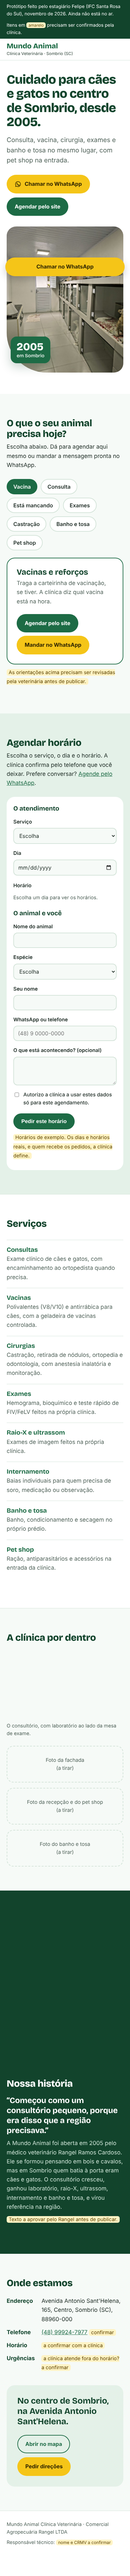
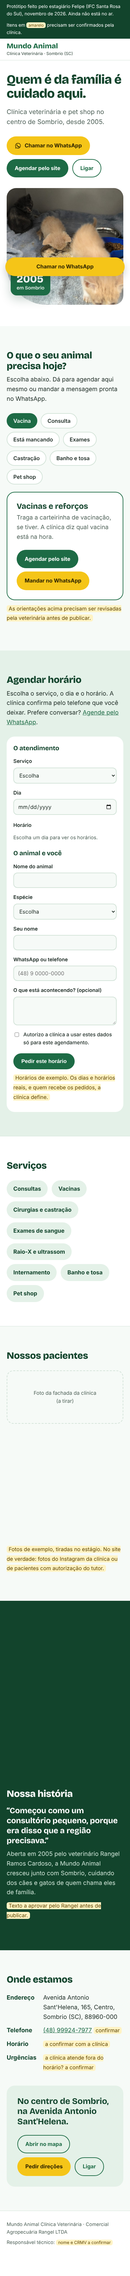
Site da Mundo Animal v2: animais em vez de infraestrutura, menos texto, botão Ligar
Claude-Session: https://claude.ai/code/session_01N8Ng2QuhzTmD121TGEQjbp

diff --git a/estagio/defesa/site-prototipo/index.html b/estagio/defesa/site-prototipo/index.html
@@ -33,7 +33,7 @@
 html{scroll-behavior:smooth}
 section[id]{scroll-margin-top:72px}
 @media (prefers-reduced-motion: reduce){html{scroll-behavior:auto}*{transition:none!important}}
-body{margin:0;background:var(--fundo);color:var(--texto);font:17px/1.6 var(--corpo)}
+body{margin:0;background:var(--fundo);color:var(--texto);font:18px/1.6 var(--corpo)}
 img{max-width:100%;height:auto;display:block}
 a{color:var(--verde)}
 :focus-visible{outline:3px solid var(--amarelo);outline-offset:3px;border-radius:4px}
@@ -101,7 +101,7 @@ input:focus,select:focus,textarea:focus{border-color:var(--verde);outline:none}
 .abertura .sub{font-size:1.2rem;color:var(--suave);max-width:34ch;margin:18px 0 28px}
 .acoes{display:flex;flex-wrap:wrap;gap:12px}
 .foto-abertura{position:relative}
-.foto-abertura img{border-radius:28px 28px 28px 120px;aspect-ratio:4/5;max-height:600px;object-fit:cover;width:100%}
+.foto-abertura img{border-radius:28px 28px 28px 120px;aspect-ratio:1/1;max-height:560px;object-fit:cover;object-position:60% 50%;width:100%}
 .selo{position:absolute;left:-18px;bottom:28px;background:var(--verde);color:#fff;border-radius:18px;padding:14px 18px;font-family:var(--titulo);line-height:1.05;box-shadow:0 10px 30px rgba(18,68,44,.25)}
 .selo b{display:block;font-size:2rem;font-weight:800}
 .selo span{font-size:.9rem;font-weight:500}
@@ -122,12 +122,23 @@ input:focus,select:focus,textarea:focus{border-color:var(--verde);outline:none}
 
 /* serviços */
 .servicos{background:var(--papel);padding:72px 0;border-block:1px solid var(--linha)}
-.lista-servicos{display:grid;grid-template-columns:repeat(2,1fr);gap:0 56px;margin-top:32px;padding:0;list-style:none}
+.chips-servicos{display:flex;flex-wrap:wrap;gap:12px;margin:28px 0 0;padding:0;list-style:none}
+.chips-servicos li{background:var(--menta);color:var(--verde-escuro);font-weight:700;border-radius:999px;padding:12px 20px;font-size:1.05rem}
+.lista-servicos{display:none}
 .lista-servicos li{padding:18px 0;border-top:1px solid var(--linha)}
 .lista-servicos h3{color:var(--verde)}
 .lista-servicos p{margin:.25em 0 0;color:var(--suave)}
 @media (max-width:700px){.lista-servicos{grid-template-columns:1fr}}
 
+/* pacientes */
+.pacientes{padding:72px 0}
+.mosaico{display:grid;grid-template-columns:repeat(3,1fr);grid-auto-rows:220px;gap:14px;margin:28px 0 14px}
+.mosaico figure{margin:0}
+.mosaico img{width:100%;height:100%;object-fit:cover;border-radius:22px}
+.mosaico .m-fachada{grid-row:span 2}
+.mosaico .m-fachada .falta{height:100%}
+.mosaico .m-largo{grid-column:span 2}
+@media (max-width:760px){.mosaico{grid-template-columns:1fr 1fr;grid-auto-rows:160px}.mosaico .m-fachada{grid-column:1/-1;grid-row:span 1}.mosaico .m-largo{grid-column:1/-1}}
 /* por dentro */
 .dentro{padding:72px 0}
 .galeria{margin-top:32px}
@@ -183,7 +194,7 @@ footer .wrap{display:flex;flex-wrap:wrap;gap:8px 24px;justify-content:space-betw
     <nav class="menu" aria-label="Seções">
       <a href="#agendar">Agendar</a>
       <a href="#servicos">Serviços</a>
-      <a href="#por-dentro">A clínica</a>
+      <a href="#pacientes">Nossos pacientes</a>
       <a href="#historia">História</a>
       <a href="#onde">Onde estamos</a>
     </nav>
@@ -195,18 +206,19 @@ footer .wrap{display:flex;flex-wrap:wrap;gap:8px 24px;justify-content:space-betw
 <section class="abertura">
   <div class="wrap">
     <div>
-      <h1>Cuidado para cães e gatos no centro de Sombrio, desde 2005.</h1>
-      <p class="sub">Consulta, vacina, cirurgia, exames e banho e tosa no mesmo lugar, com pet shop na entrada.</p>
+      <h1>Quem é da família é cuidado aqui.</h1>
+      <p class="sub">Clínica veterinária e pet shop no centro de Sombrio, desde 2005.</p>
       <div class="acoes">
         <a class="btn btn-zap zap" href="#" data-msg="Olá! Vim pelo site e gostaria de falar com a clínica.">
           <svg viewBox="0 0 24 24" aria-hidden="true"><path fill="currentColor" d="M12 2a10 10 0 0 0-8.6 15.1L2 22l5-1.3A10 10 0 1 0 12 2Zm0 18.2a8.2 8.2 0 0 1-4.2-1.2l-.3-.2-3 .8.8-2.9-.2-.3A8.2 8.2 0 1 1 12 20.2Zm4.5-6.1c-.2-.1-1.5-.7-1.7-.8-.2-.1-.4-.1-.6.1l-.8 1c-.1.2-.3.2-.5.1a6.7 6.7 0 0 1-3.3-2.9c-.2-.4.3-.4.8-1.3.1-.2 0-.3 0-.4l-.8-1.8c-.2-.5-.4-.4-.6-.4h-.5a1 1 0 0 0-.7.3 3 3 0 0 0-.9 2.2 5.2 5.2 0 0 0 1.1 2.7 11.8 11.8 0 0 0 4.5 4c1.7.7 2.3.8 3.2.6.5-.1 1.5-.6 1.7-1.2.2-.6.2-1.1.2-1.2-.1-.1-.3-.2-.5-.3Z"/></svg>
           Chamar no WhatsApp
         </a>
         <a class="btn btn-verde" href="#agendar">Agendar pelo site</a>
+        <a class="btn btn-linha" href="tel:+5548999247977">Ligar</a>
       </div>
     </div>
     <div class="foto-abertura">
-      <img src="img/internamento.jpg" alt="Internamento da clínica, com baias de vidro em dois andares e cães internados" width="900" height="1200">
+      <img src="img/hero-filhotes.jpg" alt="Três filhotes de gato comendo sobre uma manta azul" width="1600" height="1023">
       <div class="selo" aria-hidden="true"><b>2005</b><span>em Sombrio</span></div>
     </div>
   </div>
@@ -288,33 +300,23 @@ footer .wrap{display:flex;flex-wrap:wrap;gap:8px 24px;justify-content:space-betw
 <section class="servicos" id="servicos" aria-labelledby="t-servicos">
   <div class="wrap">
     <h2 id="t-servicos">Serviços</h2>
-    <ul class="lista-servicos">
-      <li><h3>Consultas</h3><p>Exame clínico de cães e gatos, com encaminhamento ao ortopedista quando precisa.</p></li>
-      <li><h3>Vacinas</h3><p>Polivalentes (V8/V10) e antirrábica para cães, com a geladeira de vacinas controlada.</p></li>
-      <li><h3>Cirurgias</h3><p>Castração, retirada de nódulos, ortopedia e odontologia, com anestesia inalatória e monitoração.</p></li>
-      <li><h3>Exames</h3><p>Hemograma, bioquímico e teste rápido de FIV/FeLV feitos na própria clínica.</p></li>
-      <li><h3>Raio-X e ultrassom</h3><p>Exames de imagem feitos na própria clínica.</p></li>
-      <li><h3>Internamento</h3><p>Baias individuais para quem precisa de soro, medicação ou observação.</p></li>
-      <li><h3>Banho e tosa</h3><p>Banho, condicionamento e secagem no próprio prédio.</p></li>
-      <li><h3>Pet shop</h3><p>Ração, antiparasitários e acessórios na entrada da clínica.</p></li>
+    <ul class="chips-servicos">
+      <li>Consultas</li><li>Vacinas</li><li>Cirurgias e castração</li><li>Exames de sangue</li>
+      <li>Raio-X e ultrassom</li><li>Internamento</li><li>Banho e tosa</li><li>Pet shop</li>
     </ul>
   </div>
 </section>
 
-<section class="dentro" id="por-dentro" aria-labelledby="t-dentro">
+<section class="pacientes" id="pacientes" aria-labelledby="t-pacientes">
   <div class="wrap">
-    <h2 id="t-dentro">A clínica por dentro</h2>
-    <div class="galeria">
-      <figure class="grande">
-        <img src="img/consultorio.jpg" alt="Consultório com mesa de exame, microscópio, analisador e armário de medicamentos" width="1600" height="1200" loading="lazy">
-        <figcaption>O consultório, com laboratório ao lado da mesa de exame.</figcaption>
-      </figure>
+    <h2 id="t-pacientes">Nossos pacientes</h2>
+    <div class="mosaico">
+      <figure class="m-fachada"><div class="falta">Foto da fachada da clínica<br>(a tirar)</div></figure>
+      <figure><img src="img/gata-siamesa.jpg" alt="Gata siamesa de olhos azuis deitada numa manta" width="900" height="777" loading="lazy"></figure>
+      <figure><img src="img/gato-cinza.jpg" alt="Filhote de gato cinza e branco cheirando uma mão" width="855" height="480" loading="lazy"></figure>
+      <figure class="m-largo"><img src="img/gato-branco.jpg" alt="Gato branco sentado na baia" width="900" height="800" loading="lazy"></figure>
     </div>
-    <div class="faltam">
-      <div class="falta">Foto da fachada<br>(a tirar)</div>
-      <div class="falta">Foto da recepção e do pet shop<br>(a tirar)</div>
-      <div class="falta">Foto do banho e tosa<br>(a tirar)</div>
-    </div>
+    <p><span class="pendente">Fotos de exemplo, tiradas no estágio. No site de verdade: fotos do Instagram da clínica ou de pacientes com autorização do tutor.</span></p>
   </div>
 </section>
 
@@ -324,7 +326,7 @@ footer .wrap{display:flex;flex-wrap:wrap;gap:8px 24px;justify-content:space-betw
     <div>
       <h2 id="t-historia">Nossa história</h2>
       <blockquote>“Começou como um consultório pequeno, porque era disso que a região precisava.”</blockquote>
-      <p>A Mundo Animal foi aberta em 2005 pelo médico veterinário Rangel Ramos Cardoso. Ele se formou pensando em bois e cavalos, mas em Sombrio quem batia à porta eram cães e gatos. O consultório cresceu, ganhou laboratório, raio-X, ultrassom, internamento e banho e tosa, e virou referência na região.</p>
+      <p>Aberta em 2005 pelo veterinário Rangel Ramos Cardoso, a Mundo Animal cresceu junto com Sombrio, cuidando dos cães e gatos de quem chama eles de família.</p>
       <p><span class="pendente">Texto a aprovar pelo Rangel antes de publicar.</span></p>
     </div>
   </div>
@@ -346,6 +348,7 @@ footer .wrap{display:flex;flex-wrap:wrap;gap:8px 24px;justify-content:space-betw
       <div class="acoes">
         <a class="btn btn-linha" href="https://www.google.com/maps/search/?api=1&query=Avenida+Antonio+Sant%27Helena+165+Sombrio+SC" target="_blank" rel="noopener">Abrir no mapa</a>
         <a class="btn btn-zap zap" href="#" data-msg="Olá! Como faço para chegar na clínica?">Pedir direções</a>
+        <a class="btn btn-linha" href="tel:+5548999247977">Ligar</a>
       </div>
     </div>
   </div>

diff --git a/estagio/defesa/site-prototipo/LEIAME.md b/estagio/defesa/site-prototipo/LEIAME.md
@@ -1,5 +1,14 @@
 # Protótipo de site da Mundo Animal (ideia do Felipe, 24/11/2026)
 
+> **Versão 2 (24/11): mais animais, menos texto.** O Felipe orientou que o público é principalmente feminino e que o Instagram da clínica mostra animais fofos (gatos, filhotes) e a fachada, não a infraestrutura. Por isso:
+> - a abertura agora tem filhotes e a frase "Quem é da família é cuidado aqui.";
+> - a seção "A clínica por dentro" virou **"Nossos pacientes"**, um mosaico de gatos com espaço para a foto da fachada;
+> - os serviços viraram etiquetas curtas;
+> - a história ficou com uma frase;
+> - a letra está maior, e entrou um botão **Ligar** (para o público mais velho).
+>
+> As fotos de animais são **de exemplo**, tiradas no estágio. No site de verdade, use fotos do Instagram da clínica ou de pacientes com autorização do tutor.
+
 A clínica ainda não tem site. Este é um protótipo de **uma página**, feito para o Felipe mostrar à clínica e na defesa. **Não está publicado em lugar nenhum.**
 
 ## Como abrir
